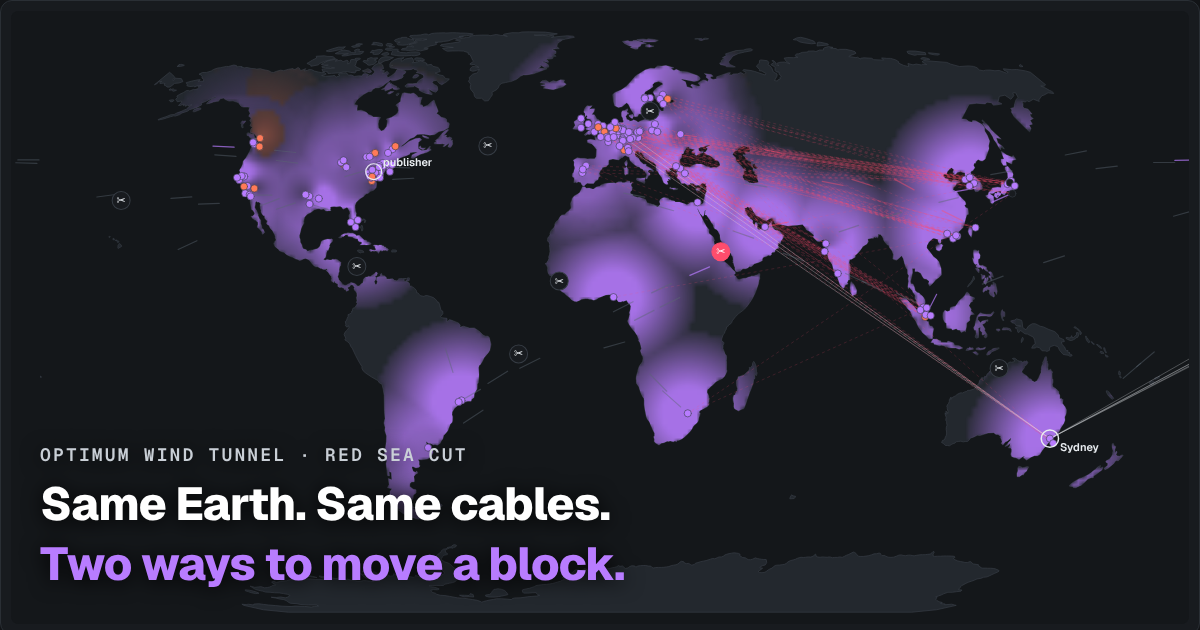
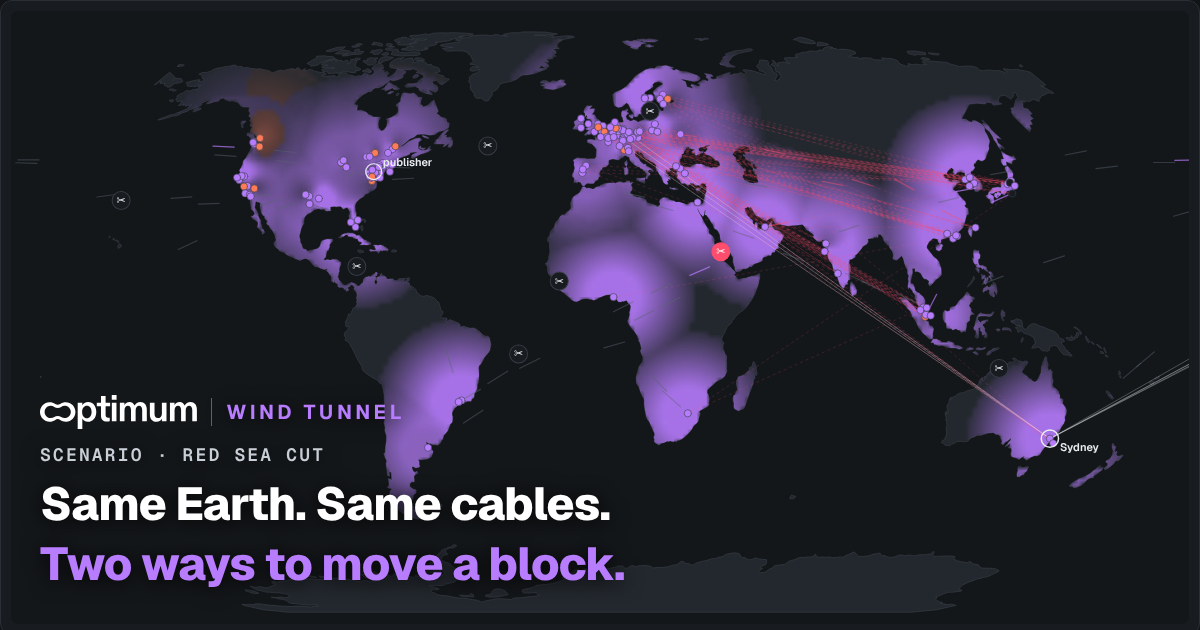
Use the official Optimum wordmark in the header and preview image

Changed region(s): [[0.0308, 0.6333, 0.4008, 0.754]]

diff --git a/index.html b/index.html
@@ -45,9 +45,10 @@ button,select,input{font:inherit;color:inherit}
 .wrap{max-width:1480px;margin:0 auto;display:flex;flex-direction:column;gap:14px}
 header{display:flex;align-items:center;gap:14px;flex-wrap:wrap}
 .brand{display:flex;align-items:center;gap:10px}
-.brand svg{height:22px;width:auto}
-.brand h1{font-size:15px;font-weight:700;letter-spacing:.18em;text-transform:uppercase;margin:0}
-.brand h1 span{color:var(--m)}
+.brand{gap:12px}
+.brand .wm{height:24px;width:auto;color:var(--fg);display:block}
+.brand .sep{width:1px;height:22px;background:var(--line2)}
+.brand h1{font-size:15px;font-weight:700;letter-spacing:.18em;text-transform:uppercase;margin:0;color:var(--m)}
 .tag{font-size:11px;color:var(--mute);border:1px solid var(--line2);padding:2px 8px;border-radius:99px}
 .hspace{flex:1}
 .seg{display:inline-flex;border:1px solid var(--line2);border-radius:8px;overflow:hidden}
@@ -146,8 +147,9 @@ footer{font-size:12px;color:var(--faint);display:flex;gap:12px;flex-wrap:wrap;ju
 <div class="wrap">
 <header>
   <div class="brand">
-    <svg viewBox="0 0 37 35" aria-hidden="true"><path fill="currentColor" d="M26.5069 7.47463C24.3635 7.47463 22.3781 8.1536 20.7529 9.30953C19.2285 10.3935 17.1897 10.3421 15.6585 9.26869C13.9191 8.04968 11.7729 7.37362 9.46493 7.48625C4.37345 7.73493 0.249521 11.8778 0.0112662 16.9842C-0.257012 22.721 4.30081 27.4564 9.96172 27.4564C12.1051 27.4564 14.0915 26.7774 15.7157 25.6215C17.2392 24.5374 19.2788 24.5889 20.81 25.6623C22.5505 26.8813 24.6958 27.5574 27.0047 27.4447C32.0952 27.197 36.2191 23.0532 36.4584 17.9468C36.7266 12.21 32.1688 7.47463 26.5078 7.47463H26.5069ZM31.7156 17.7739C31.6429 19.3368 30.9872 20.8162 29.8696 21.9381C28.7519 23.061 27.2788 23.7205 25.7204 23.7973C25.6149 23.8021 25.5073 23.8051 25.4018 23.8051C24.1001 23.8051 22.8507 23.4116 21.7892 22.6676C20.7277 21.9245 19.49 21.5311 18.2077 21.5311C16.9253 21.5311 15.7379 21.9148 14.7162 22.6413C13.646 23.4019 12.384 23.8041 11.0668 23.8041C9.32256 23.8041 7.69834 23.1067 6.49257 21.84C5.28868 20.5743 4.67078 18.9114 4.75311 17.1561C4.82574 15.5932 5.48144 14.1138 6.59908 12.9919C7.71676 11.8691 9.18988 11.2095 10.7482 11.1337C10.8537 11.1288 10.9612 11.1259 11.0668 11.1259C12.3685 11.1259 13.6179 11.5194 14.6794 12.2634C15.7399 13.0065 16.9786 13.3999 18.261 13.3999C19.5239 13.3999 20.7306 13.0162 21.7524 12.2896C22.8226 11.5291 24.0846 11.1269 25.4018 11.1269C27.1461 11.1269 28.7712 11.8243 29.9761 13.091C31.1799 14.3567 31.7979 16.0196 31.7156 17.7749V17.7739Z"/></svg>
-    <h1 lang="en">Optimum <span>Wind Tunnel</span></h1>
+    <svg class="wm" viewBox="0 0 162 35" role="img" aria-label="Optimum"><path d="M26.5069 7.47463C24.3635 7.47463 22.3781 8.1536 20.7529 9.30953C19.2285 10.3935 17.1897 10.3421 15.6585 9.26869C13.9191 8.04968 11.7729 7.37362 9.46493 7.48625C4.37345 7.73493 0.249521 11.8778 0.0112662 16.9842C-0.257012 22.721 4.30081 27.4564 9.96172 27.4564C12.1051 27.4564 14.0915 26.7774 15.7157 25.6215C17.2392 24.5374 19.2788 24.5889 20.81 25.6623C22.5505 26.8813 24.6958 27.5574 27.0047 27.4447C32.0952 27.197 36.2191 23.0532 36.4584 17.9468C36.7266 12.21 32.1688 7.47463 26.5078 7.47463H26.5069ZM31.7156 17.7739C31.6429 19.3368 30.9872 20.8162 29.8696 21.9381C28.7519 23.061 27.2788 23.7205 25.7204 23.7973C25.6149 23.8021 25.5073 23.8051 25.4018 23.8051C24.1001 23.8051 22.8507 23.4116 21.7892 22.6676C20.7277 21.9245 19.49 21.5311 18.2077 21.5311C16.9253 21.5311 15.7379 21.9148 14.7162 22.6413C13.646 23.4019 12.384 23.8041 11.0668 23.8041C9.32256 23.8041 7.69834 23.1067 6.49257 21.84C5.28868 20.5743 4.67078 18.9114 4.75311 17.1561C4.82574 15.5932 5.48144 14.1138 6.59908 12.9919C7.71676 11.8691 9.18988 11.2095 10.7482 11.1337C10.8537 11.1288 10.9612 11.1259 11.0668 11.1259C12.3685 11.1259 13.6179 11.5194 14.6794 12.2634C15.7399 13.0065 16.9786 13.3999 18.261 13.3999C19.5239 13.3999 20.7306 13.0162 21.7524 12.2896C22.8226 11.5291 24.0846 11.1269 25.4018 11.1269C27.1461 11.1269 28.7712 11.8243 29.9761 13.091C31.1799 14.3567 31.7979 16.0196 31.7156 17.7749V17.7739Z" fill="currentColor"/><path d="M38.8109 7.88153H43.5567V8.7402C43.5567 9.32494 43.5179 9.83295 43.4008 10.613C44.6065 8.58381 46.6298 7.25793 49.6252 7.25793C54.6433 7.25793 57.9507 11.4716 57.9507 17.5193C57.9507 23.567 54.2547 27.6243 49.4309 27.6243C46.2404 27.6243 44.6065 26.2586 43.4008 24.3081C43.517 25.0881 43.5567 25.5961 43.5567 26.142V34.8813H38.8109V7.88153ZM48.2637 23.8778C51.1806 23.8778 53.1265 21.2639 53.1265 17.4397C53.1265 13.6154 51.2982 11.0413 48.2637 11.0413C45.424 11.0413 43.362 13.4999 43.362 17.4397C43.362 21.3795 45.3852 23.8778 48.2637 23.8778Z" fill="currentColor"/><path d="M62.7889 20.991V11.666H58.4713V7.88162H62.7889V1.01411H67.5345V7.88065H72.203V11.665H67.5345V20.2878C67.5345 22.2771 68.3122 23.4485 70.3357 23.4485C70.8024 23.4485 71.3082 23.4097 71.7749 23.331V26.9202C71.3082 27.0765 70.1795 27.2708 68.9737 27.2708C64.9286 27.2708 62.7879 25.2417 62.7879 20.9891L62.7889 20.991Z" fill="currentColor"/><path d="M73.8841 0H78.8246V4.99375H73.8841V0ZM73.9622 7.88159H78.7084V26.9211H73.9622V7.88159Z" fill="currentColor"/><path d="M82.224 7.88153H86.9696V8.7402C86.9696 9.32494 86.9306 9.98837 86.8134 10.613C87.7473 8.93543 89.4984 7.25793 92.2991 7.25793C94.6722 7.25793 96.5781 9.09182 97.2786 10.8082C98.3682 8.97429 100.664 7.25793 103.425 7.25793C107.276 7.25793 109.96 10.3012 109.96 14.9442V26.922H105.215V15.6465C105.215 12.8762 104.125 11.0423 102.063 11.0423C100.001 11.0423 98.4459 12.9539 98.4459 15.8418V26.922H93.6997V15.6465C93.6997 12.8762 92.6887 11.0423 90.549 11.0423C88.4097 11.0423 86.9706 12.8762 86.9706 15.8418V26.922H82.2249V7.88153H82.224Z" fill="currentColor"/><path d="M113.115 19.976V7.88063H117.9V19.2348C117.9 21.8876 119.067 23.8002 121.362 23.8002C123.774 23.8002 125.486 22.0051 125.486 19.196V7.88165H130.232V26.9212H125.525V26.1412C125.525 25.5564 125.602 24.893 125.72 24.3072C124.747 26.1412 123.075 27.6234 119.923 27.6234C116.111 27.6234 113.115 25.0095 113.115 19.976Z" fill="currentColor"/><path d="M133.779 7.88153H138.525V8.7402C138.525 9.32494 138.486 9.98837 138.369 10.613C139.303 8.93543 141.054 7.25793 143.855 7.25793C146.228 7.25793 148.133 9.09182 148.834 10.8082C149.923 8.97429 152.219 7.25793 154.98 7.25793C158.831 7.25793 161.516 10.3012 161.516 14.9442V26.922H156.77V15.6465C156.77 12.8762 155.68 11.0423 153.618 11.0423C151.556 11.0423 150.001 12.9539 150.001 15.8418V26.922H145.255V15.6465C145.255 12.8762 144.244 11.0423 142.104 11.0423C139.965 11.0423 138.526 12.8762 138.526 15.8418V26.922H133.78V7.88153H133.779Z" fill="currentColor"/></svg>
+    <span class="sep" aria-hidden="true"></span>
+    <h1 lang="en">Wind Tunnel</h1>
   </div>
   <span class="tag" data-i="fan">fan-made · not an official Optimum product</span>
   <div class="hspace"></div>

diff --git a/src/src.html b/src/src.html
@@ -32,9 +32,10 @@ button,select,input{font:inherit;color:inherit}
 .wrap{max-width:1480px;margin:0 auto;display:flex;flex-direction:column;gap:14px}
 header{display:flex;align-items:center;gap:14px;flex-wrap:wrap}
 .brand{display:flex;align-items:center;gap:10px}
-.brand svg{height:22px;width:auto}
-.brand h1{font-size:15px;font-weight:700;letter-spacing:.18em;text-transform:uppercase;margin:0}
-.brand h1 span{color:var(--m)}
+.brand{gap:12px}
+.brand .wm{height:24px;width:auto;color:var(--fg);display:block}
+.brand .sep{width:1px;height:22px;background:var(--line2)}
+.brand h1{font-size:15px;font-weight:700;letter-spacing:.18em;text-transform:uppercase;margin:0;color:var(--m)}
 .tag{font-size:11px;color:var(--mute);border:1px solid var(--line2);padding:2px 8px;border-radius:99px}
 .hspace{flex:1}
 .seg{display:inline-flex;border:1px solid var(--line2);border-radius:8px;overflow:hidden}
@@ -133,8 +134,9 @@ footer{font-size:12px;color:var(--faint);display:flex;gap:12px;flex-wrap:wrap;ju
 <div class="wrap">
 <header>
   <div class="brand">
-    <svg viewBox="0 0 37 35" aria-hidden="true"><path fill="currentColor" d="M26.5069 7.47463C24.3635 7.47463 22.3781 8.1536 20.7529 9.30953C19.2285 10.3935 17.1897 10.3421 15.6585 9.26869C13.9191 8.04968 11.7729 7.37362 9.46493 7.48625C4.37345 7.73493 0.249521 11.8778 0.0112662 16.9842C-0.257012 22.721 4.30081 27.4564 9.96172 27.4564C12.1051 27.4564 14.0915 26.7774 15.7157 25.6215C17.2392 24.5374 19.2788 24.5889 20.81 25.6623C22.5505 26.8813 24.6958 27.5574 27.0047 27.4447C32.0952 27.197 36.2191 23.0532 36.4584 17.9468C36.7266 12.21 32.1688 7.47463 26.5078 7.47463H26.5069ZM31.7156 17.7739C31.6429 19.3368 30.9872 20.8162 29.8696 21.9381C28.7519 23.061 27.2788 23.7205 25.7204 23.7973C25.6149 23.8021 25.5073 23.8051 25.4018 23.8051C24.1001 23.8051 22.8507 23.4116 21.7892 22.6676C20.7277 21.9245 19.49 21.5311 18.2077 21.5311C16.9253 21.5311 15.7379 21.9148 14.7162 22.6413C13.646 23.4019 12.384 23.8041 11.0668 23.8041C9.32256 23.8041 7.69834 23.1067 6.49257 21.84C5.28868 20.5743 4.67078 18.9114 4.75311 17.1561C4.82574 15.5932 5.48144 14.1138 6.59908 12.9919C7.71676 11.8691 9.18988 11.2095 10.7482 11.1337C10.8537 11.1288 10.9612 11.1259 11.0668 11.1259C12.3685 11.1259 13.6179 11.5194 14.6794 12.2634C15.7399 13.0065 16.9786 13.3999 18.261 13.3999C19.5239 13.3999 20.7306 13.0162 21.7524 12.2896C22.8226 11.5291 24.0846 11.1269 25.4018 11.1269C27.1461 11.1269 28.7712 11.8243 29.9761 13.091C31.1799 14.3567 31.7979 16.0196 31.7156 17.7749V17.7739Z"/></svg>
-    <h1 lang="en">Optimum <span>Wind Tunnel</span></h1>
+    <svg class="wm" viewBox="0 0 162 35" role="img" aria-label="Optimum"><path d="M26.5069 7.47463C24.3635 7.47463 22.3781 8.1536 20.7529 9.30953C19.2285 10.3935 17.1897 10.3421 15.6585 9.26869C13.9191 8.04968 11.7729 7.37362 9.46493 7.48625C4.37345 7.73493 0.249521 11.8778 0.0112662 16.9842C-0.257012 22.721 4.30081 27.4564 9.96172 27.4564C12.1051 27.4564 14.0915 26.7774 15.7157 25.6215C17.2392 24.5374 19.2788 24.5889 20.81 25.6623C22.5505 26.8813 24.6958 27.5574 27.0047 27.4447C32.0952 27.197 36.2191 23.0532 36.4584 17.9468C36.7266 12.21 32.1688 7.47463 26.5078 7.47463H26.5069ZM31.7156 17.7739C31.6429 19.3368 30.9872 20.8162 29.8696 21.9381C28.7519 23.061 27.2788 23.7205 25.7204 23.7973C25.6149 23.8021 25.5073 23.8051 25.4018 23.8051C24.1001 23.8051 22.8507 23.4116 21.7892 22.6676C20.7277 21.9245 19.49 21.5311 18.2077 21.5311C16.9253 21.5311 15.7379 21.9148 14.7162 22.6413C13.646 23.4019 12.384 23.8041 11.0668 23.8041C9.32256 23.8041 7.69834 23.1067 6.49257 21.84C5.28868 20.5743 4.67078 18.9114 4.75311 17.1561C4.82574 15.5932 5.48144 14.1138 6.59908 12.9919C7.71676 11.8691 9.18988 11.2095 10.7482 11.1337C10.8537 11.1288 10.9612 11.1259 11.0668 11.1259C12.3685 11.1259 13.6179 11.5194 14.6794 12.2634C15.7399 13.0065 16.9786 13.3999 18.261 13.3999C19.5239 13.3999 20.7306 13.0162 21.7524 12.2896C22.8226 11.5291 24.0846 11.1269 25.4018 11.1269C27.1461 11.1269 28.7712 11.8243 29.9761 13.091C31.1799 14.3567 31.7979 16.0196 31.7156 17.7749V17.7739Z" fill="currentColor"/><path d="M38.8109 7.88153H43.5567V8.7402C43.5567 9.32494 43.5179 9.83295 43.4008 10.613C44.6065 8.58381 46.6298 7.25793 49.6252 7.25793C54.6433 7.25793 57.9507 11.4716 57.9507 17.5193C57.9507 23.567 54.2547 27.6243 49.4309 27.6243C46.2404 27.6243 44.6065 26.2586 43.4008 24.3081C43.517 25.0881 43.5567 25.5961 43.5567 26.142V34.8813H38.8109V7.88153ZM48.2637 23.8778C51.1806 23.8778 53.1265 21.2639 53.1265 17.4397C53.1265 13.6154 51.2982 11.0413 48.2637 11.0413C45.424 11.0413 43.362 13.4999 43.362 17.4397C43.362 21.3795 45.3852 23.8778 48.2637 23.8778Z" fill="currentColor"/><path d="M62.7889 20.991V11.666H58.4713V7.88162H62.7889V1.01411H67.5345V7.88065H72.203V11.665H67.5345V20.2878C67.5345 22.2771 68.3122 23.4485 70.3357 23.4485C70.8024 23.4485 71.3082 23.4097 71.7749 23.331V26.9202C71.3082 27.0765 70.1795 27.2708 68.9737 27.2708C64.9286 27.2708 62.7879 25.2417 62.7879 20.9891L62.7889 20.991Z" fill="currentColor"/><path d="M73.8841 0H78.8246V4.99375H73.8841V0ZM73.9622 7.88159H78.7084V26.9211H73.9622V7.88159Z" fill="currentColor"/><path d="M82.224 7.88153H86.9696V8.7402C86.9696 9.32494 86.9306 9.98837 86.8134 10.613C87.7473 8.93543 89.4984 7.25793 92.2991 7.25793C94.6722 7.25793 96.5781 9.09182 97.2786 10.8082C98.3682 8.97429 100.664 7.25793 103.425 7.25793C107.276 7.25793 109.96 10.3012 109.96 14.9442V26.922H105.215V15.6465C105.215 12.8762 104.125 11.0423 102.063 11.0423C100.001 11.0423 98.4459 12.9539 98.4459 15.8418V26.922H93.6997V15.6465C93.6997 12.8762 92.6887 11.0423 90.549 11.0423C88.4097 11.0423 86.9706 12.8762 86.9706 15.8418V26.922H82.2249V7.88153H82.224Z" fill="currentColor"/><path d="M113.115 19.976V7.88063H117.9V19.2348C117.9 21.8876 119.067 23.8002 121.362 23.8002C123.774 23.8002 125.486 22.0051 125.486 19.196V7.88165H130.232V26.9212H125.525V26.1412C125.525 25.5564 125.602 24.893 125.72 24.3072C124.747 26.1412 123.075 27.6234 119.923 27.6234C116.111 27.6234 113.115 25.0095 113.115 19.976Z" fill="currentColor"/><path d="M133.779 7.88153H138.525V8.7402C138.525 9.32494 138.486 9.98837 138.369 10.613C139.303 8.93543 141.054 7.25793 143.855 7.25793C146.228 7.25793 148.133 9.09182 148.834 10.8082C149.923 8.97429 152.219 7.25793 154.98 7.25793C158.831 7.25793 161.516 10.3012 161.516 14.9442V26.922H156.77V15.6465C156.77 12.8762 155.68 11.0423 153.618 11.0423C151.556 11.0423 150.001 12.9539 150.001 15.8418V26.922H145.255V15.6465C145.255 12.8762 144.244 11.0423 142.104 11.0423C139.965 11.0423 138.526 12.8762 138.526 15.8418V26.922H133.78V7.88153H133.779Z" fill="currentColor"/></svg>
+    <span class="sep" aria-hidden="true"></span>
+    <h1 lang="en">Wind Tunnel</h1>
   </div>
   <span class="tag" data-i="fan">fan-made · not an official Optimum product</span>
   <div class="hspace"></div>
